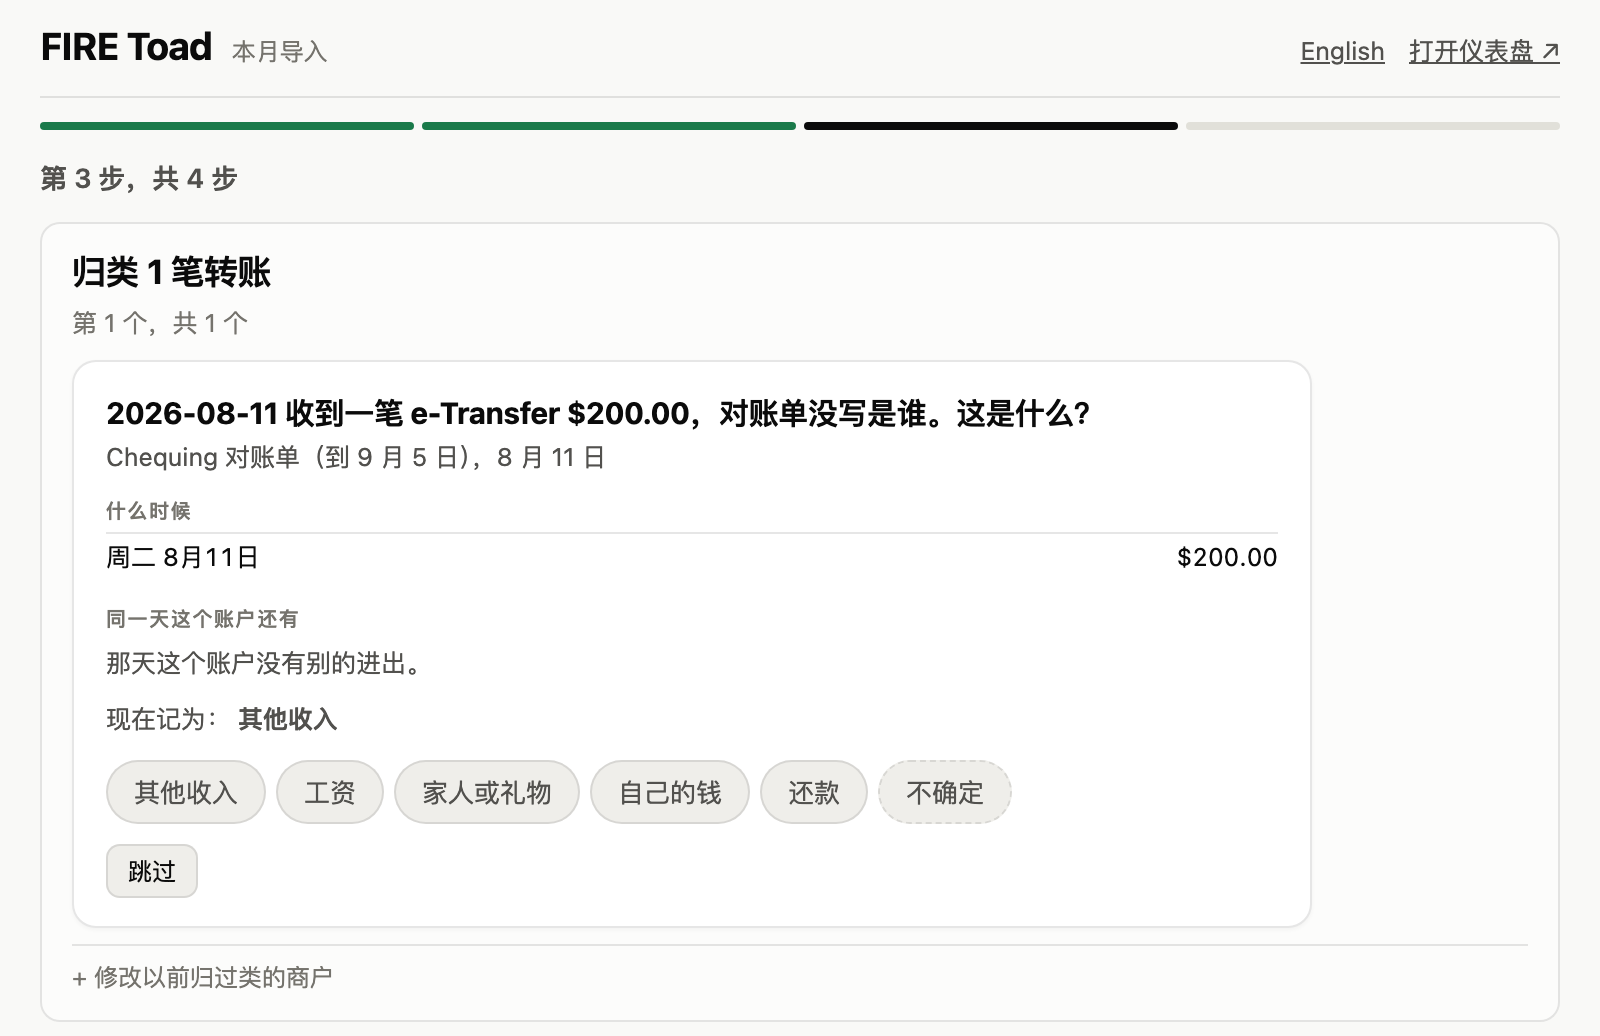
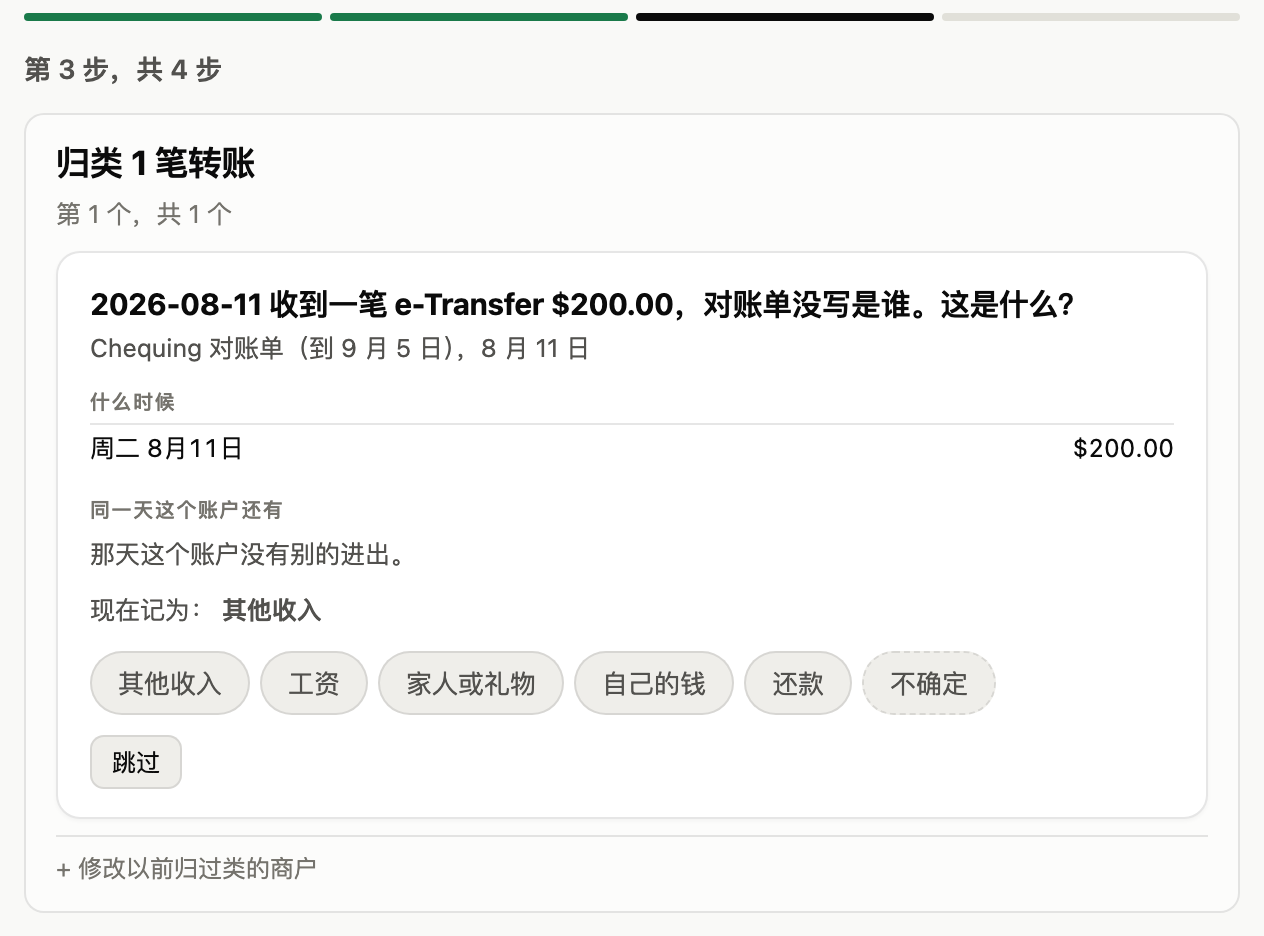
Front page: Download is the main button, a picture of the app for each monthly step
tools/demo.py now takes the panel's four views itself, in English and Chinese, from the app
running on a copy of the demo set one month back (its date pinned to the demo's), so the
pictures are retaken at every release. The panel says "1 question" and "3 statements"
instead of "(s)", and points to step 3, where the questions are.

diff --git a/templates/panel/panel.html b/templates/panel/panel.html
@@ -416,7 +416,9 @@ table.tbl td small{display:block;font-size:11.5px;font-weight:400;color:var(--mu
   }
   function keep(it, c){ answers[it.n] = c; if (it.id != null) { pending['id:' + it.id] = c; flush(); } }
   var reduced = window.matchMedia && window.matchMedia('(prefers-reduced-motion: reduce)').matches;
-  function fmtS(s, o){ return String(s).replace(/\{(\w+)\}/g, function(_, k){ return o[k] == null ? '' : o[k]; }); }
+  // a count says its own plural: "{n} statement(s)" reads "1 statement", "3 statements"
+  function fmtS(s, o){ var r = String(s).replace(/\{(\w+)\}/g, function(_, k){ return o[k] == null ? '' : o[k]; });
+    return o.n == null ? r : r.replace(/\(s\)/g, +o.n === 1 ? '' : 's'); }
   // "Primary Chequing statement to Jul 5, Jun 17": the import writes where a row came from in one
   // fixed shape; in Chinese it is said from its parts (1.0.7, feedback 89). The account's name stays.
   var MON = {Jan:1, Feb:2, Mar:3, Apr:4, May:5, Jun:6, Jul:7, Aug:8, Sep:9, Oct:10, Nov:11, Dec:12};

diff --git a/docs/site/make.py b/docs/site/make.py
@@ -12,8 +12,8 @@ The Pages workflow runs it; run it locally to look at the site before a release.
 
 The front page is the page a search finds, so everything on it is plain HTML, never written by a
 script. One layout, two tables of words: the two languages say the same things in the same order.
-The screenshots are the demo owner's, retaken at every release by tools/demo.py (the panel's are
-taken from the app). Facts only: nothing here that the tool does not do today — no phone app, no
+The screenshots are the demo owner's, retaken at every release by tools/demo.py (the panel's from
+the app itself, on a copy of the demo set one month back). Facts only: nothing here that the tool does not do today — no phone app, no
 bank connection, no Windows download.
 """
 import argparse
@@ -60,12 +60,16 @@ EN = dict(
              "lasts, your TFSA, RRSP and FHSA, and money held abroad, in one net worth.")],
     how_lab="How it works", how_h="Once a month, four steps",
     steps=[("Get the files", "Download last month's statements from your bank's website. The app "
-                             "says which ones are still missing and how to get each."),
-           ("Import", "Drop them in. Each is read on your Mac and let in only if it adds up."),
+                             "says which ones are still missing and how to get each.",
+            "Step 1 in the app: each account and what is still needed, and the files in the folder"),
+           ("Import", "Drop them in. Each is read on your Mac and let in only if it adds up.",
+            "Step 2: what the import will add, before anything is written"),
            ("Categorize", "Answer what a program cannot decide: a shop seen for the first time, "
-                          "a transfer with no name. One tap each, remembered next time."),
-           ("Done", "Your page is rebuilt with the new month.")],
-    panel_img="panel.png", panel_alt="The monthly import in the app, at step 3: what was a $200 e-Transfer with no sender?",
+                          "a transfer with no name. One tap each, remembered next time.",
+            "Step 3: one question at a time, here a transfer with no sender"),
+           ("Done", "Your page is rebuilt with the new month.",
+            "Step 4: what changed, with the net worth before and after")],
+    panel="panel",
     q_lab="What it answers",
     qs=[("Where do I stand?", "Net worth across every account and currency: a row for what each part "
                               "is for, its bar coloured by how easily you could reach it.",
@@ -129,11 +133,15 @@ ZH = dict(
             ("每个数都对得上。", "一份对账单要和它自己印的合计对平，才会收进来。"),
             ("不只是记账，还有 FIRE 计划。", "离财务自由几年、钱能撑多久；TFSA、RRSP、FHSA 和国外的钱，都算进一个净值。")],
     how_lab="怎么用", how_h="每个月，四步",
-    steps=[("拿文件", "从银行网站下载上个月的对账单。app 会告诉你还差哪几份、每份怎么拿。"),
-           ("导入", "把文件放进来。每份都在你的 Mac 上读，对平了才收。"),
-           ("归类", "程序定不了的才问你：第一次出现的商户、没有名字的转账。点一下就好，下次记得。"),
-           ("完成", "你的页面带上新的一个月，重新生成。")],
-    panel_img="panel-zh.png", panel_alt="app 里的月度导入，第 3 步：一笔没写是谁的 $200 e-Transfer 是什么？",
+    steps=[("拿文件", "从银行网站下载上个月的对账单。app 会告诉你还差哪几份、每份怎么拿。",
+            "app 里的第 1 步：每个账户还差什么，文件夹里已经有哪些文件"),
+           ("导入", "把文件放进来。每份都在你的 Mac 上读，对平了才收。",
+            "第 2 步：写进去之前，先告诉你会加进来什么"),
+           ("归类", "程序定不了的才问你：第一次出现的商户、没有名字的转账。点一下就好，下次记得。",
+            "第 3 步：一次问一件事，这里是一笔没写是谁的转账"),
+           ("完成", "你的页面带上新的一个月，重新生成。",
+            "第 4 步：这次改了什么，净值前后各是多少")],
+    panel="panel-zh",
     q_lab="它回答什么",
     qs=[("我现在在哪？", "所有账户、所有币种算在一起的净值：每一行是这部分钱的用途，色条按多容易拿到上色。",
          "crop-home.png", "首页：净值 $65,655、离财务自由几年、这个月的投资和花销"),
@@ -212,14 +220,15 @@ h1 { font-size:clamp(30px,3.3vw,44px); line-height:1.1; letter-spacing:-.025em; 
 .points span { color:var(--ink-2); font-size:15px; }
 section { padding:72px 0 0; scroll-margin-top:60px; }
 h2 { font-size:clamp(24px,3vw,32px); letter-spacing:-.015em; line-height:1.2; margin:0 0 28px; }
-.how { display:grid; grid-template-columns:4fr 7fr; gap:40px; align-items:start; }
-@media (max-width:980px) { .how { grid-template-columns:1fr; } }
-.steps { margin:0; padding:0; list-style:none; counter-reset:s; }
-.steps li { counter-increment:s; position:relative; padding:0 0 22px 44px; }
-.steps li::before { content:counter(s); position:absolute; left:0; top:0; width:28px; height:28px; border-radius:50%;
+.steps { display:grid; grid-template-columns:1fr 1fr; gap:48px 40px; align-items:start;
+         margin:0; padding:0; list-style:none; counter-reset:s; }
+@media (max-width:760px) { .steps { grid-template-columns:1fr; gap:40px; } }
+.steps li { counter-increment:s; }
+.steps .st { position:relative; padding:0 0 18px 44px; min-height:92px; }
+@media (max-width:760px) { .steps .st { min-height:0; } }
+.steps .st::before { content:counter(s); position:absolute; left:0; top:0; width:28px; height:28px; border-radius:50%;
                     background:var(--ink); color:#fff; font-weight:700; font-size:14px; display:flex;
                     align-items:center; justify-content:center; }
-.steps li:not(:last-child)::after { content:""; position:absolute; left:13.5px; top:32px; bottom:4px; width:1px; background:var(--grid); }
 .steps b { display:block; font-size:17px; margin:2px 0 4px; }
 .steps span { color:var(--ink-2); font-size:15px; }
 .qs { display:grid; gap:56px; }
@@ -263,10 +272,11 @@ def page(t, base):
           "operatingSystem": "macOS", "applicationCategory": "FinanceApplication",
           "description": t["desc"], "url": url, "downloadUrl": DOWNLOAD, "inLanguage": t["lang"],
           "offers": {"@type": "Offer", "price": "0", "priceCurrency": "CAD"}}
+    panel = lambda i: f"{t['panel']}-{i}.png"   # the app's monthly panel at step i, taken by tools/demo.py
     img = lambda f, alt, lazy=True: (f'<img src="{up}screens/{f}" alt="{e(alt)}"'
                                      + (' loading="lazy"' if lazy else "") + ">")
-    btns = (f'<a class="btn primary" href="{up}dashboard.html">{e(t["demo"])}</a>'
-            f'<a class="btn secondary" href="{DOWNLOAD}">{e(t["download"])}</a>')
+    btns = (f'<a class="btn primary" href="{DOWNLOAD}">{e(t["download"])}</a>'
+            f'<a class="btn secondary" href="{up}dashboard.html">{e(t["demo"])}</a>')
     out = [f"""<!doctype html>
 <!-- Built by docs/site/make.py; edit that, not this. -->
 <html lang="{t['lang']}">
@@ -316,10 +326,9 @@ def page(t, base):
   <section id="how">
     <p class="lab">{e(t['how_lab'])}</p>
     <h2>{e(t['how_h'])}</h2>
-    <div class="how">
-      <ol class="steps">{''.join(f'<li><b>{e(a)}</b><span>{e(b)}</span></li>' for a, b in t['steps'])}</ol>
-      <figure class="shot">{img(t['panel_img'], t['panel_alt'])}</figure>
-    </div>
+    <ol class="steps">{''.join(f'<li><div class="st"><b>{e(a)}</b><span>{e(b)}</span></div>'
+                               f'<figure class="shot">{img(panel(i), alt)}</figure></li>'
+                               for i, (a, b, alt) in enumerate(t['steps'], 1))}</ol>
   </section>
 
   <section>

diff --git a/tools/demo.py b/tools/demo.py
@@ -593,9 +593,99 @@ def screenshots(out):
             x, y, w, h = pg.evaluate(CROP_BOX, [key, n]); m = 16
             pg.screenshot(path=os.path.join(dst, fn), clip={"x": x - m, "y": y, "width": w + 2 * m, "height": h + 6})
             pg.close()
+        srv.shutdown()
+        n = panel_shots(out, dst, b)
         b.close()
-    srv.shutdown()
-    print(f"  screenshots: {len(SHOTS)} pages and {len(CROPS)} crops written to docs/screens/")
+    print(f"  screenshots: {len(SHOTS)} pages, {len(CROPS)} crops and {n} panel views written to docs/screens/")
+
+
+# The monthly panel's four views, in English and Chinese, for the front page's "Once a month,
+# four steps" (2026-11-17, user 001). They are taken from the app itself on a throwaway copy of
+# the demo set one month back — the newest statement of every document taken out of findata/
+# and dropped into inbox/ as the bank would send it, the way the selftest does — so each view
+# shows what it really shows: the files to get, what the import will add, what it asks, what
+# changed. The copy's "today" is the demo's own date, so "still needed" does not grow with the
+# calendar. panel.png and panel-zh.png (README) are the third view.
+PANEL_LANGS = (("en", "panel"), ("zh", "panel-zh"))
+PANEL_BOX = """() => { const top = document.getElementById('bars').getBoundingClientRect();
+  const card = [...document.querySelectorAll('.card.view')].find(c => c.offsetParent !== null).getBoundingClientRect();
+  const w = document.querySelector('.wrap').getBoundingClientRect();
+  return [w.x - 12, top.y - 6, w.width + 24, card.bottom - top.y + 18]; }"""
+
+
+def panel_shots(out, dst, browser):
+    import importlib.util, re, shutil, subprocess, tempfile, threading
+    sk = os.path.join(out, ".claude", "skills")
+    srv = os.path.join(sk, "local-app", "scripts", "server.py")
+    if not os.path.exists(srv):
+        return 0
+    spec = importlib.util.spec_from_file_location("selftest", os.path.join(sk, "workspace-checks", "scripts", "selftest.py"))
+    st = importlib.util.module_from_spec(spec); spec.loader.exec_module(st)
+    _sys.path.insert(0, os.path.join(sk, "update-dashboard", "scripts"))
+    from clock import clock
+    pin = clock(out)[0].isoformat()
+    tmp = tempfile.mkdtemp(prefix="firetoad-panel-"); ws = os.path.join(tmp, "ws")
+    shutil.copytree(out, ws, ignore=shutil.ignore_patterns(".git", "dist", "work", "__pycache__", "_fixtures"))
+    try:
+        fd = lambda n: os.path.join(ws, "findata", "register" if n == "profile.json" else "history", n)
+        pr = json.load(open(fd("profile.json"), encoding="utf-8")); pr["demo"] = False
+        json.dump(pr, open(fd("profile.json"), "w", encoding="utf-8"), indent=2, ensure_ascii=False)
+        dj = json.load(open(fd("decisions.json"), encoding="utf-8"))   # the import asks its own
+        dj["decisions"] = [d for d in dj["decisions"] if d.get("status") != "open"]
+        json.dump(dj, open(fd("decisions.json"), "w", encoding="utf-8"), indent=2, ensure_ascii=False)
+        newest = {}
+        for m in st.fixtures_for(ws) or []:
+            newest[m["doc"]] = max(newest.get(m["doc"], m), m, key=lambda x: os.path.basename(x["file"]))
+        for m in newest.values():
+            st.strip_statement(ws, m)
+        subprocess.run([_sys.executable, os.path.join(sk, "update-dashboard", "scripts", "rebuild.py"), ".", "--write"],
+                       cwd=ws, capture_output=True)
+        here = os.path.dirname(srv)
+        boot = (f"import sys, datetime, functools, runpy; sys.argv = ['server.py', '.', '--port', '0']; "
+                f"sys.path.insert(0, {os.path.join(sk, 'monthly-import', 'scripts')!r}); sys.path.insert(0, {here!r}); "
+                f"import status; status.run = functools.partial(status.run, today=datetime.date.fromisoformat({pin!r})); "
+                f"runpy.run_path({srv!r}, run_name='__main__')")
+        proc = subprocess.Popen([_sys.executable, "-c", boot], cwd=ws, stdout=subprocess.PIPE, stderr=subprocess.STDOUT, text=True)
+        try:
+            line = ""
+            for _ in range(200):
+                line = proc.stdout.readline()
+                if "http://127.0.0.1:" in line or not line:
+                    break
+            m = re.search(r"(http://127\.0\.0\.1:\d+/t/[^/\s]+/panel)", line)
+            if not m:
+                print("  panel: SKIPPED (the app did not start)"); return 0
+            url = m.group(1)
+            threading.Thread(target=proc.stdout.read, daemon=True).start()   # keep its log from filling the pipe
+
+            def shot(pg, name):
+                pg.wait_for_timeout(1200)          # the card fades in
+                x, y, w, h = pg.evaluate(PANEL_BOX)
+                pg.screenshot(path=os.path.join(dst, name), clip={"x": x, "y": max(y, 0), "width": w, "height": h})
+
+            def view(pg, i):
+                pg.eval_on_selector_all("a[data-go]", f"a => a[{i - 1}].click()")
+
+            pages = {}
+            for lang, stem in PANEL_LANGS:             # before the import: the files, then what it will add
+                pg = browser.new_page(viewport={"width": 640, "height": 1000}, device_scale_factor=2)   # narrow, so it reads at half a page
+                pg.goto(f"{url}?lang={lang}"); pg.wait_for_selector("#go", state="visible", timeout=120000)
+                shot(pg, f"{stem}-2.png")
+                view(pg, 1); shot(pg, f"{stem}-1.png")
+                pages[lang] = pg
+            pg = pages["en"]; view(pg, 2); pg.wait_for_timeout(500)
+            pg.click("#go"); pg.wait_for_selector("#step4.show", timeout=300000)
+            for lang, stem in PANEL_LANGS:             # after it: what it asks, what changed
+                pg = pages[lang]; pg.goto(f"{url}?lang={lang}"); pg.wait_for_selector("#step4.show", timeout=60000)
+                shot(pg, f"{stem}-3.png")
+                view(pg, 4); shot(pg, f"{stem}-4.png")
+                shutil.copy(os.path.join(dst, f"{stem}-3.png"), os.path.join(dst, f"{stem}.png"))
+                pg.close()
+            return 8
+        finally:
+            proc.terminate(); proc.wait(timeout=10)
+    finally:
+        shutil.rmtree(tmp, ignore_errors=True)
 
 
 if __name__ == "__main__":

diff --git a/.claude/skills/local-app/scripts/strings.py b/.claude/skills/local-app/scripts/strings.py
@@ -34,8 +34,8 @@ S = {
                      "zh": "inbox 里有 {n} 个文件认不出来。命名之前什么都不会导入——看第 2 步。"},
     "lead_inbox": {"en": "Files are in. Next: step 3, press “See what would happen”.",
                    "zh": "文件已经放进来了。下一步：第 3 步，点「先看看会发生什么」。"},
-    "lead_questions": {"en": "The import is done. {n} question(s) wait for you in step 4.",
-                       "zh": "导入完成了。第 4 步有 {n} 个问题等你回答。"},
+    "lead_questions": {"en": "The import is done. {n} question(s) wait for you in step 3.",
+                       "zh": "导入完成了。第 3 步有 {n} 个问题等你回答。"},
     "lead_done": {"en": "Everything is up to date. Nothing to do until the next statements arrive.",
                   "zh": "都是最新的。等下一批对账单出来之前没有事要做。"},
     # — step 1 rows
@@ -113,7 +113,7 @@ S = {
     "c_ledger rows": {"en": "{n} account rows", "zh": "{n} 行账户流水"},
     "c_purchases": {"en": "{n} purchases", "zh": "{n} 笔消费"},
     "c_refunds": {"en": "{n} refund(s)", "zh": "{n} 笔退款"},
-    "r_asked": {"en": "{n} question(s) for you afterwards — step 4", "zh": "之后有 {n} 个问题要你答——第 4 步"},
+    "r_asked": {"en": "{n} question(s) for you afterwards — step 3", "zh": "之后有 {n} 个问题要你答——第 3 步"},
     "r_by_hand": {"en": "{n} file(s) no program can read: a person has to", "zh": "{n} 个文件程序读不了，得人来读"},
     "r_untyped": {"en": "{n} row(s) nobody could type", "zh": "{n} 行没人认得出是什么"},
     "r_unknown": {"en": "Left in the folder, not recognised ({n})", "zh": "留在文件夹里，没认出来（{n} 个）"},

diff --git a/CHANGELOG.md b/CHANGELOG.md
@@ -9,6 +9,11 @@
   link already shared still works; the README links go straight there.
 - **The front page answers what people ask before trying a budget app**: is it really free, why
   switch from a spreadsheet, does it make you log in to the bank again, do you sort every purchase.
+- **Download for Mac is the front page's main button**; the live demo is the second.
+- **Each of the four monthly steps has its own picture on the front page**, taken from the app on
+  the demo's data at every release.
+- **The import panel counts in plain words**: "1 question", "3 statements", and the questions are
+  in step 3, where they are.
 
 ## 1.0.7 — 2026-11-16
 
